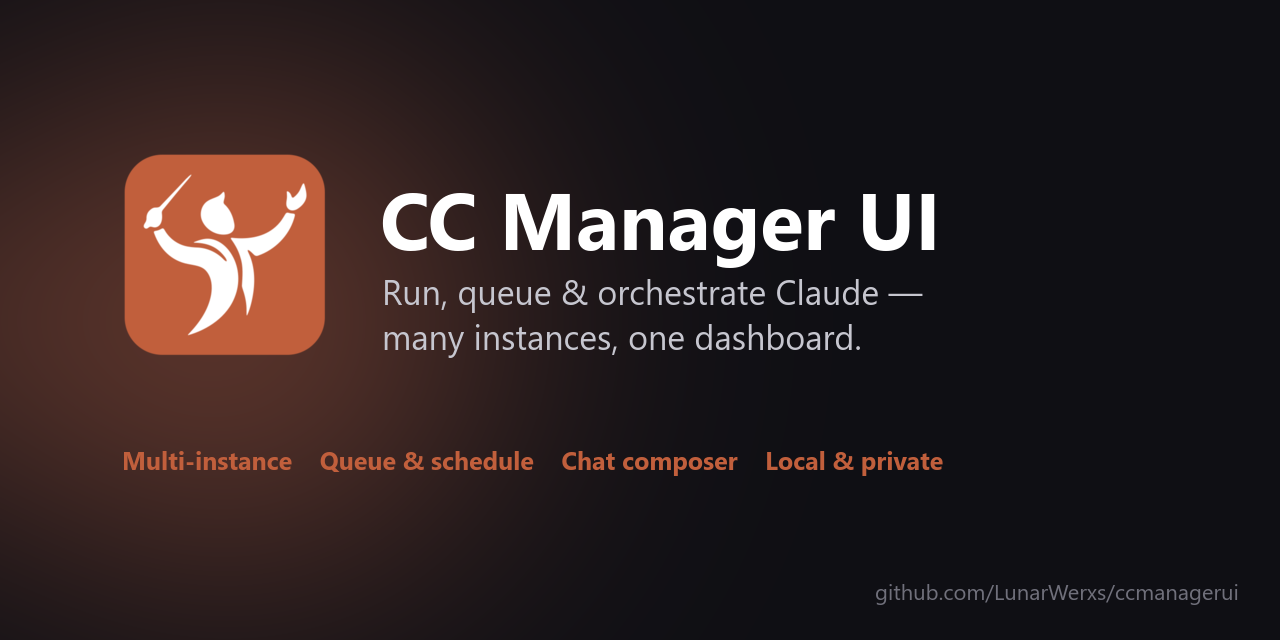
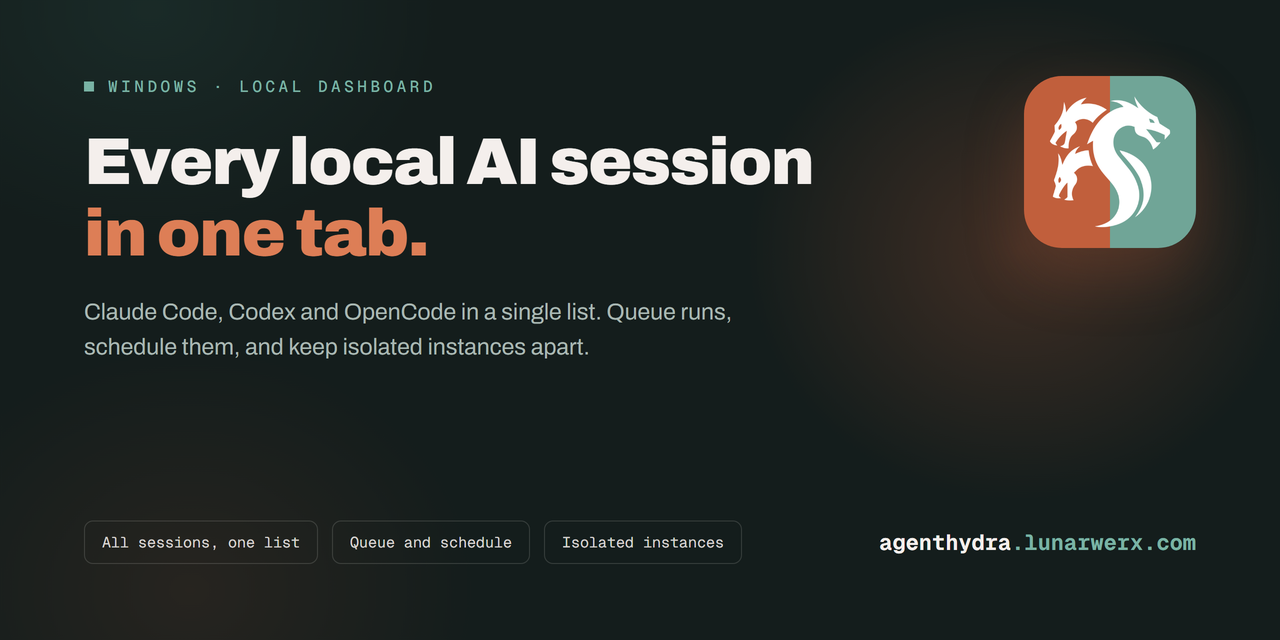
Rebrand the landing page to AgentHydra
CC Manager UI described a Claude-Code-only tool, which stopped being true once
the app grew to manage Codex and OpenCode as well. The copy is rewritten around
that rather than just find-and-replaced: the title, description, OG/Twitter
cards, hero and footer now lead with every local AI coding session in one tab,
and name all three CLIs instead of only Claude.

The site moves to agenthydra.lunarwerx.com, matching every sibling product's
<name>.lunarwerx.com hostname. The old host keeps answering via a 301 from the
lunarwerx-aliases Worker, because it is printed in every shipped release.

Brand assets are regenerated from the new mark (a white three-headed hydra on a
tile split between the existing orange and a new sage): icon.svg, favicon.ico
and og.png, the last of which is now the house social card rather than a
one-off, so it matches the repo's own README banner and social preview.

diff --git a/index.html b/index.html
@@ -3,8 +3,8 @@
 <head>
   <meta charset="UTF-8" />
   <meta name="viewport" content="width=device-width, initial-scale=1" />
-  <title>CC Manager UI: run, queue and orchestrate Claude from one dashboard</title>
-  <meta name="description" content="A local dashboard for running Claude. See every isolated Claude Desktop instance and its account, live-tail your Claude Code sessions, and build a queue of claude runs, each with its own prompt, model, effort and account, dispatched on demand or on a schedule. One daemon, your browser, a tray icon. Nothing leaves your machine." />
+  <title>AgentHydra: every local AI coding session in one tab</title>
+  <meta name="description" content="A local dashboard for every AI coding session on your machine. Live-tail Claude Code, Codex and OpenCode in a single list, see which account each isolated Claude Desktop instance is on, and build a queue of runs, each with its own prompt, model, effort and account, dispatched on demand or on a schedule. One daemon, your browser, a tray icon. Nothing leaves your machine." />
   <meta name="theme-color" content="#0a0a0a" />
   <meta name="color-scheme" content="dark" />
   <link rel="icon" type="image/svg+xml" href="icon.svg" />
@@ -13,16 +13,16 @@
 
   <!-- Open Graph / social -->
   <meta property="og:type" content="website" />
-  <link rel="canonical" href="https://ccmanagerui.lunarwerx.com/" />
-  <meta property="og:url" content="https://ccmanagerui.lunarwerx.com/" />
-  <meta property="og:title" content="CC Manager UI: run, queue and orchestrate Claude" />
-  <meta property="og:description" content="A local dashboard for running Claude: every isolated Desktop instance and its account, live-tailed Claude Code sessions, and a queue of claude runs dispatched on demand or on a schedule. Local and private." />
-  <meta property="og:image" content="https://ccmanagerui.lunarwerx.com/og.png" />
+  <link rel="canonical" href="https://agenthydra.lunarwerx.com/" />
+  <meta property="og:url" content="https://agenthydra.lunarwerx.com/" />
+  <meta property="og:title" content="AgentHydra: every local AI coding session in one tab" />
+  <meta property="og:description" content="Claude Code, Codex and OpenCode in a single list. Queue runs, schedule them, and keep isolated instances apart. Local, private, many heads and one dashboard." />
+  <meta property="og:image" content="https://agenthydra.lunarwerx.com/og.png" />
   <meta property="og:image:width" content="1280" />
   <meta property="og:image:height" content="640" />
   <meta name="twitter:card" content="summary_large_image" />
-  <meta name="twitter:title" content="CC Manager UI: run, queue and orchestrate Claude" />
-  <meta name="twitter:image" content="https://ccmanagerui.lunarwerx.com/og.png" />
+  <meta name="twitter:title" content="AgentHydra: every local AI coding session in one tab" />
+  <meta name="twitter:image" content="https://agenthydra.lunarwerx.com/og.png" />
 
   <style>
     :root {
@@ -532,12 +532,12 @@ a.lw-parent:hover .lw-tip,a.lw-parent:focus-visible .lw-tip{opacity:1;visibility
 <a class="lw-parent" href="https://lunarwerx.com/" aria-label="Back to LunarWerx Studios, the parent studio"><svg viewBox="0 0 24 24" width="18" height="18" fill="none" stroke="currentColor" stroke-width="2" stroke-linecap="round" stroke-linejoin="round" aria-hidden="true"><path d="M19 12H5"/><path d="m12 19-7-7 7-7"/></svg><span class="lw-tip" aria-hidden="true"><span>LunarWerx Studios</span><span>Every app we build, in one place</span></span></a>
   <nav>
     <div class="wrap nav-inner">
-      <span class="lw-home-group"><a class="brand" href="/"><img src="icon.svg" alt="" /><span>CC Manager UI</span></a></span>
+      <span class="lw-home-group"><a class="brand" href="/"><img src="icon.svg" alt="" /><span>AgentHydra</span></a></span>
       <div class="nav-links">
         <a class="hide-sm" href="#how">How it works</a>
         <a class="hide-sm" href="#features">Features</a>
         <a class="hide-sm" href="#mcp">MCP</a>
-        <a class="nav-gh" href="https://github.com/LunarWerxs/ccmanagerui" target="_blank" rel="noopener">
+        <a class="nav-gh" href="https://github.com/LunarWerxs/AgentHydra" target="_blank" rel="noopener">
           <svg viewBox="0 0 16 16" width="16" height="16" fill="currentColor" aria-hidden="true"><path d="M8 0C3.58 0 0 3.58 0 8c0 3.54 2.29 6.53 5.47 7.59.4.07.55-.17.55-.38 0-.19-.01-.82-.01-1.49-2.01.37-2.53-.49-2.69-.94-.09-.23-.48-.94-.82-1.13-.28-.15-.68-.52-.01-.53.63-.01 1.08.58 1.23.82.72 1.21 1.87.87 2.33.66.07-.52.28-.87.51-1.07-1.78-.2-3.64-.89-3.64-3.95 0-.87.31-1.59.82-2.15-.08-.2-.36-1.02.08-2.12 0 0 .67-.21 2.2.82.64-.18 1.32-.27 2-.27.68 0 1.36.09 2 .27 1.53-1.04 2.2-.82 2.2-.82.44 1.1.16 1.92.08 2.12.51.56.82 1.27.82 2.15 0 3.07-1.87 3.75-3.65 3.95.29.25.54.73.54 1.48 0 1.07-.01 1.93-.01 2.2 0 .21.15.46.55.38A8.01 8.01 0 0016 8c0-4.42-3.58-8-8-8z"/></svg>
           GitHub
         </a>
@@ -547,15 +547,15 @@ a.lw-parent:hover .lw-tip,a.lw-parent:focus-visible .lw-tip{opacity:1;visibility
 
   <header class="hero">
     <div class="wrap hero-inner">
-      <span class="eyebrow"><span class="pulse"></span> A local dashboard for running Claude</span>
-      <h1>Run, queue and orchestrate Claude <span class="grad">from one dashboard</span></h1>
-      <p class="lede">See every isolated Claude Desktop instance and which account it's on, live-tail all your Claude Code sessions, and build a queue of <code>claude</code> runs, each with its own prompt, model, effort and account, dispatched on demand or on a schedule. One daemon, your browser, a tray icon.</p>
+      <span class="eyebrow"><span class="pulse"></span> A local dashboard for every AI coding session</span>
+      <h1>Every local AI coding session <span class="grad">in one tab</span></h1>
+      <p class="lede">Live-tail Claude Code, Codex and OpenCode in a single list, see every isolated Claude Desktop instance and which account it's on, and build a queue of runs, each with its own prompt, model, effort and account, dispatched on demand or on a schedule. One daemon, your browser, a tray icon.</p>
       <div class="cta">
-        <a class="btn btn-primary" href="https://github.com/LunarWerxs/ccmanagerui/releases" target="_blank" rel="noopener">
+        <a class="btn btn-primary" href="https://github.com/LunarWerxs/AgentHydra/releases" target="_blank" rel="noopener">
           <svg viewBox="0 0 24 24" width="16" height="16" fill="none" stroke="currentColor" stroke-width="2" stroke-linecap="round" stroke-linejoin="round"><path d="M21 15v4a2 2 0 0 1-2 2H5a2 2 0 0 1-2-2v-4"/><path d="M7 10l5 5 5-5"/><path d="M12 15V3"/></svg>
           Download
         </a>
-        <a class="btn btn-ghost" href="https://github.com/LunarWerxs/ccmanagerui" target="_blank" rel="noopener">
+        <a class="btn btn-ghost" href="https://github.com/LunarWerxs/AgentHydra" target="_blank" rel="noopener">
           <svg viewBox="0 0 16 16" width="16" height="16" fill="currentColor" aria-hidden="true"><path d="M8 0C3.58 0 0 3.58 0 8c0 3.54 2.29 6.53 5.47 7.59.4.07.55-.17.55-.38 0-.19-.01-.82-.01-1.49-2.01.37-2.53-.49-2.69-.94-.09-.23-.48-.94-.82-1.13-.28-.15-.68-.52-.01-.53.63-.01 1.08.58 1.23.82.72 1.21 1.87.87 2.33.66.07-.52.28-.87.51-1.07-1.78-.2-3.64-.89-3.64-3.95 0-.87.31-1.59.82-2.15-.08-.2-.36-1.02.08-2.12 0 0 .67-.21 2.2.82.64-.18 1.32-.27 2-.27.68 0 1.36.09 2 .27 1.53-1.04 2.2-.82 2.2-.82.44 1.1.16 1.92.08 2.12.51.56.82 1.27.82 2.15 0 3.07-1.87 3.75-3.65 3.95.29.25.54.73.54 1.48 0 1.07-.01 1.93-.01 2.2 0 .21.15.46.55.38A8.01 8.01 0 0016 8c0-4.42-3.58-8-8-8z"/></svg>
           View source
         </a>
@@ -575,7 +575,7 @@ a.lw-parent:hover .lw-tip,a.lw-parent:focus-visible .lw-tip{opacity:1;visibility
         <div class="app" aria-hidden="true">
           <div class="app-top">
             <img class="logo" src="icon.svg" alt="" />
-            <span class="app-name">CC Manager UI</span>
+            <span class="app-name">AgentHydra</span>
             <div class="app-tabs">
               <span class="tab on" data-tab="sessions"><svg viewBox="0 0 24 24" fill="none" stroke="currentColor" stroke-width="2"><path d="M14 9a2 2 0 0 1-2 2H6l-4 4V4a2 2 0 0 1 2-2h8a2 2 0 0 1 2 2z"/><path d="M18 9h2a2 2 0 0 1 2 2v11l-4-4h-6a2 2 0 0 1-2-2v-1"/></svg>Sessions</span>
               <span class="tab" data-tab="instances"><svg viewBox="0 0 24 24" fill="none" stroke="currentColor" stroke-width="2"><path d="M2.97 12.92A2 2 0 0 0 2 14.63v3.24a2 2 0 0 0 .97 1.71l3 1.8a2 2 0 0 0 2.06 0L12 19v-5.5l-5-3-4.03 2.42Z"/><path d="m7 16.5-4.74-2.85"/><path d="m7 16.5 5-3"/><path d="M7 16.5v5.17"/><path d="M12 13.5V19l3.97 2.38a2 2 0 0 0 2.06 0l3-1.8a2 2 0 0 0 .97-1.71v-3.24a2 2 0 0 0-.97-1.71L17 8.5l-5 3Z"/></svg>Instances</span>
@@ -781,17 +781,17 @@ a.lw-parent:hover .lw-tip,a.lw-parent:focus-visible .lw-tip{opacity:1;visibility
       <div class="step"><span class="num n3">3</span><h3>Queue &amp; dispatch</h3><p>Build a queue of <code>claude</code> runs and fire them on demand or on a schedule, or hand the whole thing to your agents over MCP.</p></div>
     </div>
 
-    <div class="term" role="img" aria-label="Terminal showing bun run start booting the CC Manager UI daemon, which finds four Claude Desktop instances and 128 sessions and serves the dashboard on localhost port 7787.">
+    <div class="term" role="img" aria-label="Terminal showing bun run start booting the AgentHydra daemon, which finds four Claude Desktop instances and 128 sessions and serves the dashboard on localhost port 7787.">
       <div class="term-bar">
         <span class="tl tl-r"></span><span class="tl tl-y"></span><span class="tl tl-g"></span>
-        <span class="term-title">ccmanagerui: first run</span>
+        <span class="term-title">agenthydra: first run</span>
       </div>
       <div class="term-body">
 <div class="term-line"><span class="t-prompt">$</span> <span class="t-cmd">bun run start</span></div>
-<div class="term-line"><span class="t-dim">[ccmanagerui]</span> <span class="t-out">reading ~/.claude/projects …</span> <span class="t-ok">128 sessions</span></div>
-<div class="term-line"><span class="t-dim">[ccmanagerui]</span> <span class="t-out">discovering Claude Desktop instances …</span> <span class="t-ok">4 found</span></div>
-<div class="term-line"><span class="t-dim">[ccmanagerui]</span> <span class="t-out">scheduler</span> <span class="t-warn">off</span> <span class="t-dim">· auto-resume</span> <span class="t-warn">off</span> <span class="t-dim">(opt in from Settings)</span></div>
-<div class="term-line"><span class="t-dim">[ccmanagerui]</span> <span class="t-out">dashboard →</span> <span class="t-url">http://localhost:7787</span><span class="caret" aria-hidden="true"></span></div>
+<div class="term-line"><span class="t-dim">[agenthydra]</span> <span class="t-out">reading ~/.claude/projects …</span> <span class="t-ok">128 sessions</span></div>
+<div class="term-line"><span class="t-dim">[agenthydra]</span> <span class="t-out">discovering Claude Desktop instances …</span> <span class="t-ok">4 found</span></div>
+<div class="term-line"><span class="t-dim">[agenthydra]</span> <span class="t-out">scheduler</span> <span class="t-warn">off</span> <span class="t-dim">· auto-resume</span> <span class="t-warn">off</span> <span class="t-dim">(opt in from Settings)</span></div>
+<div class="term-line"><span class="t-dim">[agenthydra]</span> <span class="t-out">dashboard →</span> <span class="t-url">http://localhost:7787</span><span class="caret" aria-hidden="true"></span></div>
       </div>
     </div>
   </section>
@@ -871,9 +871,9 @@ a.lw-parent:hover .lw-tip,a.lw-parent:focus-visible .lw-tip{opacity:1;visibility
       </div>
 <pre class="code-body"><code id="mcpCode">{
   <span class="tok-key">"mcpServers"</span><span class="tok-punc">:</span> {
-    <span class="tok-key">"ccmanagerui"</span><span class="tok-punc">:</span> {
+    <span class="tok-key">"agenthydra"</span><span class="tok-punc">:</span> {
       <span class="tok-key">"command"</span><span class="tok-punc">:</span> <span class="tok-str">"bun"</span><span class="tok-punc">,</span>
-      <span class="tok-key">"args"</span><span class="tok-punc">:</span> [<span class="tok-str">"run"</span><span class="tok-punc">,</span> <span class="tok-str">"--cwd"</span><span class="tok-punc">,</span> <span class="tok-str">"&lt;path-to-ccmanagerui&gt;"</span><span class="tok-punc">,</span> <span class="tok-str">"mcp"</span>]
+      <span class="tok-key">"args"</span><span class="tok-punc">:</span> [<span class="tok-str">"run"</span><span class="tok-punc">,</span> <span class="tok-str">"--cwd"</span><span class="tok-punc">,</span> <span class="tok-str">"&lt;path-to-agenthydra&gt;"</span><span class="tok-punc">,</span> <span class="tok-str">"mcp"</span>]
     }
   }
 }</code></pre>
@@ -934,7 +934,7 @@ a.lw-parent:hover .lw-tip,a.lw-parent:focus-visible .lw-tip{opacity:1;visibility
   <section class="wrap foot-cta">
     <h2>Stop tab-juggling your Claudes</h2>
     <p>One daemon, one dashboard for every instance, session and run, plus an MCP door for your agents.</p>
-    <a class="btn btn-primary" href="https://github.com/LunarWerxs/ccmanagerui/releases" target="_blank" rel="noopener">
+    <a class="btn btn-primary" href="https://github.com/LunarWerxs/AgentHydra/releases" target="_blank" rel="noopener">
       <svg viewBox="0 0 24 24" width="16" height="16" fill="none" stroke="currentColor" stroke-width="2" stroke-linecap="round" stroke-linejoin="round"><path d="M21 15v4a2 2 0 0 1-2 2H5a2 2 0 0 1-2-2v-4"/><path d="M7 10l5 5 5-5"/><path d="M12 15V3"/></svg>
       Download a release
     </a>
@@ -944,13 +944,13 @@ a.lw-parent:hover .lw-tip,a.lw-parent:focus-visible .lw-tip{opacity:1;visibility
     <div class="wrap foot-inner">
       <div class="foot-brand">
         <img src="icon.svg" alt="" />
-        <span>CC Manager UI: run, queue and orchestrate Claude</span>
+        <span>AgentHydra: every local AI coding session in one tab</span>
       </div>
       <div class="foot-links">
-        <a href="https://github.com/LunarWerxs/ccmanagerui" target="_blank" rel="noopener">GitHub</a>
-        <a href="https://github.com/LunarWerxs/ccmanagerui#mcp-server" target="_blank" rel="noopener">MCP</a>
-        <a href="https://github.com/LunarWerxs/ccmanagerui/blob/main/CHANGELOG.md" target="_blank" rel="noopener">Changelog</a>
-        <a href="https://github.com/LunarWerxs/ccmanagerui/releases" target="_blank" rel="noopener">Releases</a>
+        <a href="https://github.com/LunarWerxs/AgentHydra" target="_blank" rel="noopener">GitHub</a>
+        <a href="https://github.com/LunarWerxs/AgentHydra#mcp-server" target="_blank" rel="noopener">MCP</a>
+        <a href="https://github.com/LunarWerxs/AgentHydra/blob/main/CHANGELOG.md" target="_blank" rel="noopener">Changelog</a>
+        <a href="https://github.com/LunarWerxs/AgentHydra/releases" target="_blank" rel="noopener">Releases</a>
       </div>
       <div class="foot-legal">
         MIT licensed · Built by <a href="https://lunarwerx.com/" target="_blank" rel="noopener">LunarWerx</a>

diff --git a/README.md b/README.md
@@ -1,11 +1,11 @@
-# ccmanagerui.github.io
+# agenthydra.github.io
 
-The landing page for **CC Manager UI**: a local dashboard for running, queuing and
+The landing page for **AgentHydra**: a local dashboard for running, queuing and
 orchestrating Claude across every isolated Desktop instance and Claude Code session on your
 machine.
 
-🔗 **Live:** https://ccmanagerui.lunarwerx.com
-📦 **Source & releases:** https://github.com/LunarWerxs/ccmanagerui
+🔗 **Live:** https://agenthydra.lunarwerx.com
+📦 **Source & releases:** https://github.com/LunarWerxs/AgentHydra
 
 A single self-contained `index.html` (no build step, no dependencies), served by GitHub Pages.
 Edit it directly and push to `main`.
